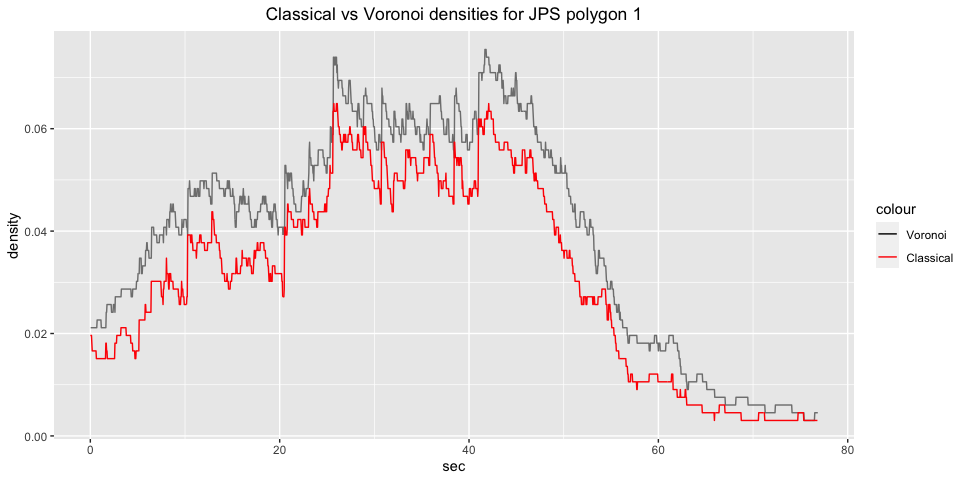
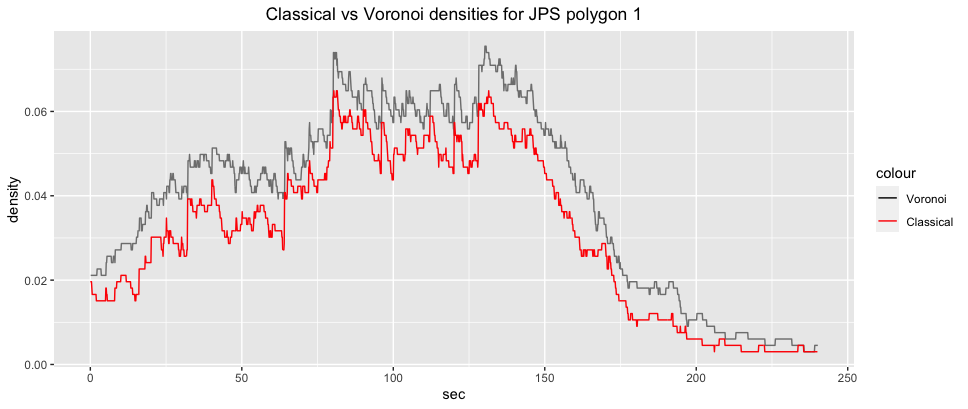
docs

diff --git a/docs/voronoi.html b/docs/voronoi.html
@@ -254,7 +254,9 @@ code span.wa { color: #60a0b0; font-weight: bold; font-style: italic; } /* Warni
 <span id="cb1-4"><a href="#cb1-4" aria-hidden="true" tabindex="-1"></a></span>
 <span id="cb1-5"><a href="#cb1-5" aria-hidden="true" tabindex="-1"></a>jps_deldir <span class="ot">=</span> <span class="fu">readRDS</span>(<span class="st">"traj1_voronoi.RDS"</span>)</span>
 <span id="cb1-6"><a href="#cb1-6" aria-hidden="true" tabindex="-1"></a></span>
-<span id="cb1-7"><a href="#cb1-7" aria-hidden="true" tabindex="-1"></a>jps_d_div <span class="ot">=</span> <span class="fu">readRDS</span>(<span class="st">"jps_d_div.RDS"</span>)</span></code><button title="Copy to Clipboard" class="code-copy-button"><i class="bi"></i></button></pre></div>
+<span id="cb1-7"><a href="#cb1-7" aria-hidden="true" tabindex="-1"></a>jps_d_div <span class="ot">=</span> <span class="fu">readRDS</span>(<span class="st">"jps_d_div.RDS"</span>)</span>
+<span id="cb1-8"><a href="#cb1-8" aria-hidden="true" tabindex="-1"></a></span>
+<span id="cb1-9"><a href="#cb1-9" aria-hidden="true" tabindex="-1"></a>jps_d_sel <span class="ot">=</span> <span class="fu">readRDS</span>(<span class="st">"jps_d_sel.RDS"</span>)</span></code><button title="Copy to Clipboard" class="code-copy-button"><i class="bi"></i></button></pre></div>
 </div>
 <section id="gcs" class="level1" data-number="9">
 <h1 data-number="9"><span class="header-section-number">9</span> GCS</h1>
@@ -605,12 +607,64 @@ code span.wa { color: #60a0b0; font-weight: bold; font-style: italic; } /* Warni
 <span id="cb17-5"><a href="#cb17-5" aria-hidden="true" tabindex="-1"></a>  <span class="co">#   k &lt; length(deldir_pol) + 1){</span></span>
 <span id="cb17-6"><a href="#cb17-6" aria-hidden="true" tabindex="-1"></a>      <span class="co"># gcs_deldir_z1[[k]] = sf::st_intersection(zone1_pol,  deldir_pol[[k]])</span></span>
 <span id="cb17-7"><a href="#cb17-7" aria-hidden="true" tabindex="-1"></a>    jps_deldir_z1[[k]] <span class="ot">=</span> <span class="fu">gcs_deldir_fun</span>(<span class="at">gcs =</span> zones_pol_sf[<span class="dv">1</span>,],</span>
-<span id="cb17-8"><a href="#cb17-8" aria-hidden="true" tabindex="-1"></a>                                     <span class="at">deldir_pol =</span> deldir_pol[[k]]<span class="sc">/</span><span class="dv">14</span>) <span class="co">#from pixels to metres</span></span>
+<span id="cb17-8"><a href="#cb17-8" aria-hidden="true" tabindex="-1"></a>                                     <span class="at">deldir_pol =</span> jps_deldir[[k]]) <span class="co">#from pixels to metres</span></span>
 <span id="cb17-9"><a href="#cb17-9" aria-hidden="true" tabindex="-1"></a>    jps_deldir_z2[[k]] <span class="ot">=</span> <span class="fu">gcs_deldir_fun</span>(<span class="at">gcs =</span> zones_pol_sf[<span class="dv">2</span>,],</span>
-<span id="cb17-10"><a href="#cb17-10" aria-hidden="true" tabindex="-1"></a>                                     <span class="at">deldir_pol =</span> deldir_pol[[k]] <span class="sc">/</span><span class="dv">14</span>)</span>
+<span id="cb17-10"><a href="#cb17-10" aria-hidden="true" tabindex="-1"></a>                                     <span class="at">deldir_pol =</span> jps_deldir[[k]])</span>
 <span id="cb17-11"><a href="#cb17-11" aria-hidden="true" tabindex="-1"></a>  <span class="co"># }</span></span>
 <span id="cb17-12"><a href="#cb17-12" aria-hidden="true" tabindex="-1"></a>  }</span></code><button title="Copy to Clipboard" class="code-copy-button"><i class="bi"></i></button></pre></div>
 </div>
+<div class="cell">
+<div class="sourceCode cell-code" id="cb18"><pre class="sourceCode r code-with-copy"><code class="sourceCode r"><span id="cb18-1"><a href="#cb18-1" aria-hidden="true" tabindex="-1"></a><span class="co"># plot zone 1</span></span>
+<span id="cb18-2"><a href="#cb18-2" aria-hidden="true" tabindex="-1"></a>jps_voronoi_density_temp_z1 <span class="ot">=</span> <span class="fu">vector</span>()</span>
+<span id="cb18-3"><a href="#cb18-3" aria-hidden="true" tabindex="-1"></a>jps_voronoi_density_z1 <span class="ot">=</span> <span class="fu">data.frame</span>()</span>
+<span id="cb18-4"><a href="#cb18-4" aria-hidden="true" tabindex="-1"></a><span class="cf">for</span> (i <span class="cf">in</span> <span class="dv">1</span><span class="sc">:</span><span class="fu">length</span>(jps_deldir_z1)){</span>
+<span id="cb18-5"><a href="#cb18-5" aria-hidden="true" tabindex="-1"></a>  <span class="cf">if</span>(<span class="fu">is.null</span>(jps_deldir_z1[[i]]) <span class="sc">==</span> <span class="cn">FALSE</span>){</span>
+<span id="cb18-6"><a href="#cb18-6" aria-hidden="true" tabindex="-1"></a>    jps_voronoi_density_temp_z1[i] <span class="ot">=</span> <span class="fu">nrow</span>(jps_deldir_z1[[i]]) <span class="sc">/</span> gcs_area_sel[<span class="dv">1</span>]</span>
+<span id="cb18-7"><a href="#cb18-7" aria-hidden="true" tabindex="-1"></a>    jps_voronoi_density_z1 <span class="ot">=</span> <span class="fu">as.data.frame</span>(<span class="st">"x"</span> <span class="ot">=</span> jps_voronoi_density_temp_z1) <span class="sc">|&gt;</span> </span>
+<span id="cb18-8"><a href="#cb18-8" aria-hidden="true" tabindex="-1"></a>      dplyr<span class="sc">::</span><span class="fu">mutate</span>(<span class="at">frame =</span> dplyr<span class="sc">::</span><span class="fu">row_number</span>(),</span>
+<span id="cb18-9"><a href="#cb18-9" aria-hidden="true" tabindex="-1"></a>                    <span class="at">sec =</span> frame <span class="sc">/</span> <span class="dv">25</span>)</span>
+<span id="cb18-10"><a href="#cb18-10" aria-hidden="true" tabindex="-1"></a>    <span class="fu">colnames</span>(jps_voronoi_density_z1) <span class="ot">=</span> <span class="fu">c</span>(<span class="st">"density"</span>, <span class="st">"frame"</span>, <span class="st">"sec"</span>)</span>
+<span id="cb18-11"><a href="#cb18-11" aria-hidden="true" tabindex="-1"></a>  }</span>
+<span id="cb18-12"><a href="#cb18-12" aria-hidden="true" tabindex="-1"></a>  }</span>
+<span id="cb18-13"><a href="#cb18-13" aria-hidden="true" tabindex="-1"></a></span>
+<span id="cb18-14"><a href="#cb18-14" aria-hidden="true" tabindex="-1"></a>ggplot2<span class="sc">::</span><span class="fu">ggplot</span>(jps_voronoi_density_z1)<span class="sc">+</span></span>
+<span id="cb18-15"><a href="#cb18-15" aria-hidden="true" tabindex="-1"></a>  ggplot2<span class="sc">::</span><span class="fu">aes</span>(<span class="at">x =</span> sec,</span>
+<span id="cb18-16"><a href="#cb18-16" aria-hidden="true" tabindex="-1"></a>               <span class="at">y =</span> density,</span>
+<span id="cb18-17"><a href="#cb18-17" aria-hidden="true" tabindex="-1"></a>               <span class="at">col =</span> <span class="st">"black"</span>)<span class="sc">+</span></span>
+<span id="cb18-18"><a href="#cb18-18" aria-hidden="true" tabindex="-1"></a>  ggplot2<span class="sc">::</span><span class="fu">geom_line</span>() <span class="sc">+</span></span>
+<span id="cb18-19"><a href="#cb18-19" aria-hidden="true" tabindex="-1"></a>  ggplot2<span class="sc">::</span><span class="fu">geom_line</span>(<span class="at">data =</span> jps_d_sel[[<span class="dv">1</span>]], <span class="at">color =</span> <span class="st">"red"</span>)<span class="sc">+</span></span>
+<span id="cb18-20"><a href="#cb18-20" aria-hidden="true" tabindex="-1"></a>  ggplot2<span class="sc">::</span><span class="fu">scale_colour_manual</span>(</span>
+<span id="cb18-21"><a href="#cb18-21" aria-hidden="true" tabindex="-1"></a>                      <span class="at">values =</span> <span class="fu">c</span>(<span class="st">"Voronoi"</span><span class="ot">=</span><span class="st">"black"</span>, <span class="st">"Classical"</span> <span class="ot">=</span> <span class="st">"red"</span>)) <span class="sc">+</span> </span>
+<span id="cb18-22"><a href="#cb18-22" aria-hidden="true" tabindex="-1"></a>  ggplot2<span class="sc">::</span><span class="fu">labs</span>(<span class="at">title=</span><span class="st">"Classical vs Voronoi densities for Zone 1"</span>)<span class="sc">+</span></span>
+<span id="cb18-23"><a href="#cb18-23" aria-hidden="true" tabindex="-1"></a>  ggplot2<span class="sc">::</span><span class="fu">theme</span>(<span class="at">plot.title =</span> ggplot2<span class="sc">::</span><span class="fu">element_text</span>(<span class="at">hjust =</span> <span class="fl">0.5</span>))</span></code><button title="Copy to Clipboard" class="code-copy-button"><i class="bi"></i></button></pre></div>
+</div>
+<p><img src="figures/jps_cl_vor_z1.png" class="img-fluid"></p>
+<div class="cell">
+<div class="sourceCode cell-code" id="cb19"><pre class="sourceCode r code-with-copy"><code class="sourceCode r"><span id="cb19-1"><a href="#cb19-1" aria-hidden="true" tabindex="-1"></a><span class="co"># plot zone 2</span></span>
+<span id="cb19-2"><a href="#cb19-2" aria-hidden="true" tabindex="-1"></a>jps_voronoi_density_temp_z2 <span class="ot">=</span> <span class="fu">vector</span>()</span>
+<span id="cb19-3"><a href="#cb19-3" aria-hidden="true" tabindex="-1"></a>jps_voronoi_density_z2 <span class="ot">=</span> <span class="fu">data.frame</span>()</span>
+<span id="cb19-4"><a href="#cb19-4" aria-hidden="true" tabindex="-1"></a><span class="cf">for</span> (i <span class="cf">in</span> <span class="dv">1</span><span class="sc">:</span><span class="fu">length</span>(jps_deldir_z2)){</span>
+<span id="cb19-5"><a href="#cb19-5" aria-hidden="true" tabindex="-1"></a>  <span class="cf">if</span>(<span class="fu">is.null</span>(jps_deldir_z2[[i]]) <span class="sc">==</span> <span class="cn">FALSE</span>){</span>
+<span id="cb19-6"><a href="#cb19-6" aria-hidden="true" tabindex="-1"></a>    jps_voronoi_density_temp_z2[i] <span class="ot">=</span> <span class="fu">nrow</span>(jps_deldir_z2[[i]]) <span class="sc">/</span> gcs_area_sel[<span class="dv">1</span>]</span>
+<span id="cb19-7"><a href="#cb19-7" aria-hidden="true" tabindex="-1"></a>    jps_voronoi_density_z2 <span class="ot">=</span> <span class="fu">as.data.frame</span>(<span class="st">"x"</span> <span class="ot">=</span> jps_voronoi_density_temp_z2) <span class="sc">|&gt;</span> </span>
+<span id="cb19-8"><a href="#cb19-8" aria-hidden="true" tabindex="-1"></a>      dplyr<span class="sc">::</span><span class="fu">mutate</span>(<span class="at">frame =</span> dplyr<span class="sc">::</span><span class="fu">row_number</span>(),</span>
+<span id="cb19-9"><a href="#cb19-9" aria-hidden="true" tabindex="-1"></a>                    <span class="at">sec =</span> frame <span class="sc">/</span> <span class="dv">25</span>)</span>
+<span id="cb19-10"><a href="#cb19-10" aria-hidden="true" tabindex="-1"></a>    <span class="fu">colnames</span>(jps_voronoi_density_z2) <span class="ot">=</span> <span class="fu">c</span>(<span class="st">"density"</span>, <span class="st">"frame"</span>, <span class="st">"sec"</span>)</span>
+<span id="cb19-11"><a href="#cb19-11" aria-hidden="true" tabindex="-1"></a>  }</span>
+<span id="cb19-12"><a href="#cb19-12" aria-hidden="true" tabindex="-1"></a>  }</span>
+<span id="cb19-13"><a href="#cb19-13" aria-hidden="true" tabindex="-1"></a></span>
+<span id="cb19-14"><a href="#cb19-14" aria-hidden="true" tabindex="-1"></a>ggplot2<span class="sc">::</span><span class="fu">ggplot</span>(jps_voronoi_density_z2)<span class="sc">+</span></span>
+<span id="cb19-15"><a href="#cb19-15" aria-hidden="true" tabindex="-1"></a>  ggplot2<span class="sc">::</span><span class="fu">aes</span>(<span class="at">x =</span> sec,</span>
+<span id="cb19-16"><a href="#cb19-16" aria-hidden="true" tabindex="-1"></a>               <span class="at">y =</span> density,</span>
+<span id="cb19-17"><a href="#cb19-17" aria-hidden="true" tabindex="-1"></a>               <span class="at">col =</span> <span class="st">"black"</span>)<span class="sc">+</span></span>
+<span id="cb19-18"><a href="#cb19-18" aria-hidden="true" tabindex="-1"></a>  ggplot2<span class="sc">::</span><span class="fu">geom_line</span>() <span class="sc">+</span></span>
+<span id="cb19-19"><a href="#cb19-19" aria-hidden="true" tabindex="-1"></a>  ggplot2<span class="sc">::</span><span class="fu">geom_line</span>(<span class="at">data =</span> jps_d_sel[[<span class="dv">2</span>]], <span class="at">color =</span> <span class="st">"red"</span>)<span class="sc">+</span></span>
+<span id="cb19-20"><a href="#cb19-20" aria-hidden="true" tabindex="-1"></a>  ggplot2<span class="sc">::</span><span class="fu">scale_colour_manual</span>(</span>
+<span id="cb19-21"><a href="#cb19-21" aria-hidden="true" tabindex="-1"></a>                      <span class="at">values =</span> <span class="fu">c</span>(<span class="st">"Voronoi"</span><span class="ot">=</span><span class="st">"black"</span>, <span class="st">"Classical"</span> <span class="ot">=</span> <span class="st">"red"</span>)) <span class="sc">+</span> </span>
+<span id="cb19-22"><a href="#cb19-22" aria-hidden="true" tabindex="-1"></a>  ggplot2<span class="sc">::</span><span class="fu">labs</span>(<span class="at">title=</span><span class="st">"Classical vs Voronoi densities for Zone 2"</span>)<span class="sc">+</span></span>
+<span id="cb19-23"><a href="#cb19-23" aria-hidden="true" tabindex="-1"></a>  ggplot2<span class="sc">::</span><span class="fu">theme</span>(<span class="at">plot.title =</span> ggplot2<span class="sc">::</span><span class="fu">element_text</span>(<span class="at">hjust =</span> <span class="fl">0.5</span>))</span></code><button title="Copy to Clipboard" class="code-copy-button"><i class="bi"></i></button></pre></div>
+</div>
+<p><img src="figures/jps_cl_vor_z2.png" class="img-fluid"></p>
 </section>
 </section>
 <section id="discussion" class="level1" data-number="11">
